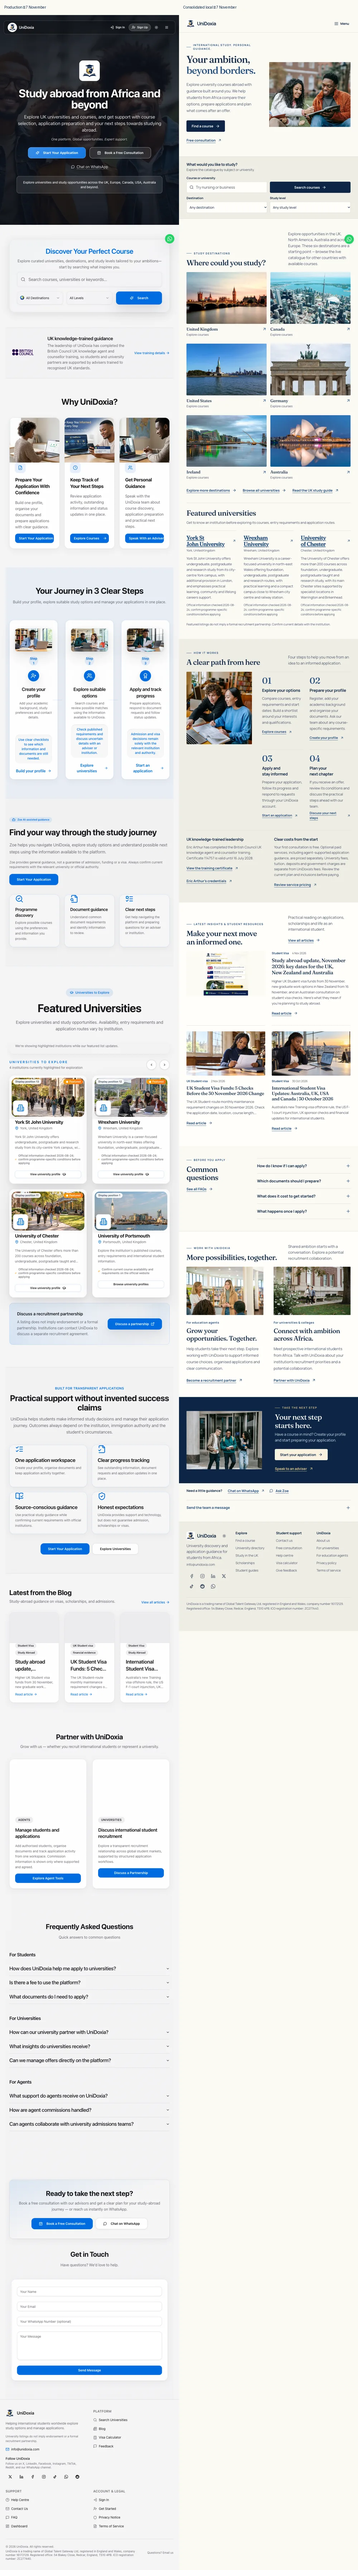
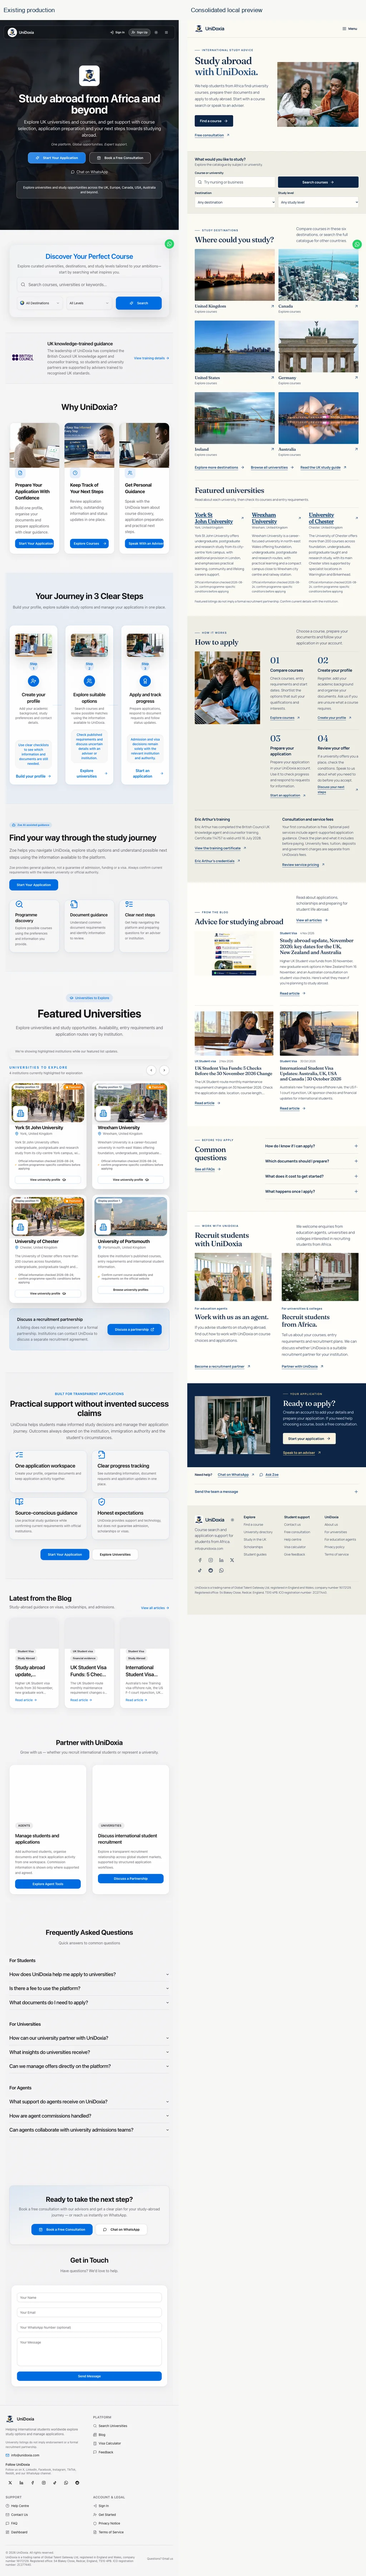
Use plain homepage copy without em dashes

diff --git a/src/pages/Index.tsx b/src/pages/Index.tsx
@@ -102,7 +102,7 @@ function HomeFooter() {
         <div className="udx-footer-grid">
           <div className="udx-footer-about">
             <div className="udx-footer-brand"><HomeBrand /><ThemeToggle className="motion-reduce:transform-none motion-reduce:transition-none" /></div>
-            <p>University discovery and application guidance for students from Africa.</p>
+            <p>Course search and application support for students from Africa.</p>
             <a href={`mailto:${business.email}`}>{business.email}</a>
             <HomeSocials />
           </div>
@@ -157,7 +157,7 @@ export default function Index() {
               <p className="udx-kicker">Study destinations</p>
               <h2 id="destinations-title">Where could you study?</h2>
             </div>
-            <p>Explore opportunities in the UK, North America, Australia and across Europe. These six destinations are a starting point — browse the live catalogue for other countries with available courses.</p>
+            <p>Compare courses in these six destinations, or search the full catalogue for other countries.</p>
           </div>
           <div className="udx-destination-grid">
             {homeDestinations.map(({ name, country, image, alt }) => (
@@ -193,9 +193,9 @@ export default function Index() {
             <div className="udx-section-head">
               <div>
                 <p className="udx-kicker">How it works</p>
-                <h2 id="journey-title">A clear path from here</h2>
+                <h2 id="journey-title">How to apply</h2>
               </div>
-              <p>Four steps to help you move from an idea to an informed application.</p>
+              <p>Choose a course, prepare your documents and follow your application in your account.</p>
             </div>
             <div className="udx-journey-grid">
               <HomePhotography image="study-planning" alt="Two students comparing notes and researching together with a laptop in a library" widths={[640, 1000]} ratio={.9} sizes="(max-width: 767px) calc(100vw - 32px), 40vw" />
@@ -248,9 +248,9 @@ export default function Index() {
             <HomePhotography image="next-chapter" alt="Students talking outside a university building with books and backpacks" widths={[640, 1000]} ratio={1.3} />
             <div className="udx-next-copy">
               <div>
-                <p className="udx-kicker">Take the next step</p>
-                <h2 id="next-title">Your next step starts here.</h2>
-                <p>Have a course in mind? Create your profile and start preparing your application.</p>
+                <p className="udx-kicker">Your application</p>
+                <h2 id="next-title">Ready to apply?</h2>
+                <p>Create an account to add your details and prepare your application. If you need help choosing a course, book a free consultation.</p>
               </div>
               <div className="udx-actions">
                 <Link className="udx-button" to={user ? "/dashboard" : studentSignup}>
@@ -263,13 +263,13 @@ export default function Index() {
         </section>
 
         <div className="udx-wrap udx-support">
-          <span>Need a little guidance?</span>
+          <span>Need help?</span>
           <a className="udx-text-link" href={WHATSAPP_URL} target="_blank" rel="noopener noreferrer" onClick={() => logFreeConsultationWhatsAppClick("homepage_support")}>Chat on WhatsApp <ArrowUpRight size={16} aria-hidden="true" /></a>
           <button type="button" id="home-zoe-launcher" className="udx-text-link" onClick={() => window.dispatchEvent(new Event("zoe:home-request"))}>
             <MessageCircle size={16} aria-hidden="true" /> Ask Zoe
           </button>
         </div>
-      <HomeContact />
+        <HomeContact />
       </main>
       <HomeFooter />
       <HomeWhatsApp />

diff --git a/src/components/landing/LatestFromBlog.tsx b/src/components/landing/LatestFromBlog.tsx
@@ -29,11 +29,11 @@ export default function LatestFromBlog() {
       <div className="udx-wrap">
       <div className="udx-section-head">
         <div>
-          <p className="udx-kicker">Latest insights &amp; student resources</p>
-          <h2 id="latest-blog-heading">Make your next move<br className="udx-desktop-break" /> an informed one.</h2>
+          <p className="udx-kicker">From the blog</p>
+          <h2 id="latest-blog-heading">Advice for studying abroad</h2>
         </div>
         <div className="udx-insights-intro">
-          <p>Practical reading on applications, scholarships and life as an international student.</p>
+          <p>Read about applications, scholarships and preparing for student life abroad.</p>
           <Link to="/blog" className="udx-text-link">View all articles <ArrowRight size={17} aria-hidden="true" /></Link>
         </div>
       </div>

diff --git a/src/components/landing/HomePartnerships.tsx b/src/components/landing/HomePartnerships.tsx
@@ -8,8 +8,8 @@ export function HomePartnerships() {
     <section className="udx-section udx-partnerships" aria-labelledby="partnerships-title">
       <div className="udx-wrap">
         <div className="udx-section-head">
-          <div><p className="udx-kicker">Work with UniDoxia</p><h2 id="partnerships-title">More possibilities, together.</h2></div>
-          <p>Shared ambition starts with a conversation. Explore a potential recruitment collaboration.</p>
+          <div><p className="udx-kicker">Work with UniDoxia</p><h2 id="partnerships-title">Recruit students with UniDoxia</h2></div>
+          <p>We welcome enquiries from education agents, universities and colleges interested in recruiting students from Africa.</p>
         </div>
         <div className="udx-partnership-grid">
           {homePartnerships.map(partner => (

diff --git a/src/components/landing/HomeContact.tsx b/src/components/landing/HomeContact.tsx
@@ -15,7 +15,7 @@ export function HomeContact() {
         <summary>Send the team a message <Plus size={20} aria-hidden="true" /></summary>
         <div className="udx-contact-content">
           <div>
-            <h2>A question before you begin?</h2>
+            <h2>Have a question?</h2>
             <p>Tell us about your study plans or ask the team a question. You can also email <a href={`mailto:${business.email}`}>{business.email}</a>.</p>
             <p>For a free conversation about your options, <Link to="/free-consultation">book a consultation</Link>.</p>
             <p className="udx-contact-privacy">We use these details to respond to your enquiry. Read our <Link to="/legal/privacy">Privacy Notice</Link>.</p>

diff --git a/src/components/landing/FeaturedUniversitiesSection.tsx b/src/components/landing/FeaturedUniversitiesSection.tsx
@@ -33,7 +33,7 @@ export function FeaturedUniversitiesSection() {
   return (
     <section className="udx-featured" aria-labelledby="featured-universities-title">
       <h2 id="featured-universities-title">Featured universities</h2>
-      <p className="udx-featured-intro">Get to know an institution before exploring its courses, entry requirements and application routes.</p>
+      <p className="udx-featured-intro">Read about each university, then check its courses and entry requirements.</p>
       <ul>
         {data.map((university) => (
           <li key={university.id}>

diff --git a/src/components/landing/StudyProgramSearch.tsx b/src/components/landing/StudyProgramSearch.tsx
@@ -134,7 +134,7 @@ export function StudyProgramSearch({ className }: StudyProgramSearchProps) {
                   transition={{ duration: 0.5, delay: 0.15 }}
                   className="text-muted-foreground max-w-3xl mx-auto"
                 >
-                  Explore curated universities, destinations, and study levels tailored to your ambitions—start by searching what inspires you.
+                  Search by course, university, destination or study level.
                 </motion.p>
               </div>
 

diff --git a/docs/HOMEPAGE-CONSOLIDATION-AUDIT.md b/docs/HOMEPAGE-CONSOLIDATION-AUDIT.md
@@ -1,14 +1,20 @@
-# UniDoxia landing-page consolidation audit — 7 November 2026
+# UniDoxia landing-page consolidation audit: 7 November 2026
 
 The comparison uses the actual running [production homepage](https://unidoxia.com/) and the built local preview at http://127.0.0.1:4192/. Work remains on `redesign/public-homepage` in [draft PR #1288](https://github.com/Otsikow/unidoxia/pull/1288). No production code, data, permissions or hosting was changed. The preview is local, not hosted staging.
 
 ## What the comparison established
 
-Production still has useful capabilities that should survive the redesign: combined course/destination/level search, prominent consultation access, contextual university descriptions, direct profile/application entry links, role-specific FAQs and a homepage enquiry form. Its hero headline explains the service more literally. Its larger feature sections explain the application workspace in greater detail.
+Production still has useful capabilities that should survive the redesign: combined course/destination/level search, prominent consultation access, contextual university descriptions, direct profile/application entry links, role-specific FAQs and a homepage enquiry form. Its larger feature sections explain the application workspace in greater detail.
 
 The local page already had real published articles, all seven social URLs from production, both partnership invitations, six equal destination photographs, an individually attributed credential link, light-default theme behaviour and the compact WhatsApp launcher. These were verified rather than recreated. An early capture made before the live queries settled showed loading states; the final captures explicitly wait for the published articles and real university records.
 
 The [current ApplyBoard homepage](https://www.applyboard.com/) was inspected in the browser as a visual benchmark. Student photography, readable hierarchy and a clear first action informed the review. Its photographs, branding and layouts were not copied.
+
+## Copy review
+
+Eric requested plain, natural language without em dashes. The headline now reads “Study abroad with UniDoxia.” The introduction explains course search, documents and applications for students from Africa. Partnership invitations, application steps, blog headings and the closing invitation describe the actual services rather than using slogans about ambition or possibilities. Initial HTML and the React page use the revised wording.
+
+The updated homepage source and rendered body contain no em dashes. Fresh screenshots at 390, 768 and 1440px were inspected; each fitted its viewport, decoded all 14 images and had no page errors. These screenshots replace the local views in the comparisons below. Published articles, university records and official credential wording were not rewritten. Nine focused unit checks, 40 desktop/mobile browser checks, changed-file lint and the full build passed after this copy update. The broader audit results below were recorded before the copy update; performance audits were not repeated for this text-only change.
 
 ## Improvements completed and verified
 
@@ -73,7 +79,6 @@ Each restored social link was actually opened from the page. Facebook resolved t
 
 ## Where the previous production design is still stronger
 
-- **Immediate literal explanation.** “Study abroad from Africa and beyond” communicates the service in the headline itself. The local “Your ambition, beyond borders” is more distinctive, but relies on its nearby international-study message and Africa-focused introduction for the full explanation.
 - **Always-visible enquiry fields.** Production exposes its form without opening a disclosure. The local version preserves the form behind one explicit action to reduce page density. This is a deliberate convenience/space trade-off for Eric to review.
 - **Role-specific FAQ breadth on the homepage.** Production shows student, agent and university questions directly. The local homepage prioritises four student questions and links to the complete FAQ route, retaining the content with one additional navigation step.
 - **First-screen resource/control access.** Production exposes Visa Guidance and its theme toggle in the header. The local page keeps visa-calculator and theme access in the organised footer. Scholarship navigation and direct consultation access have been restored higher up.
